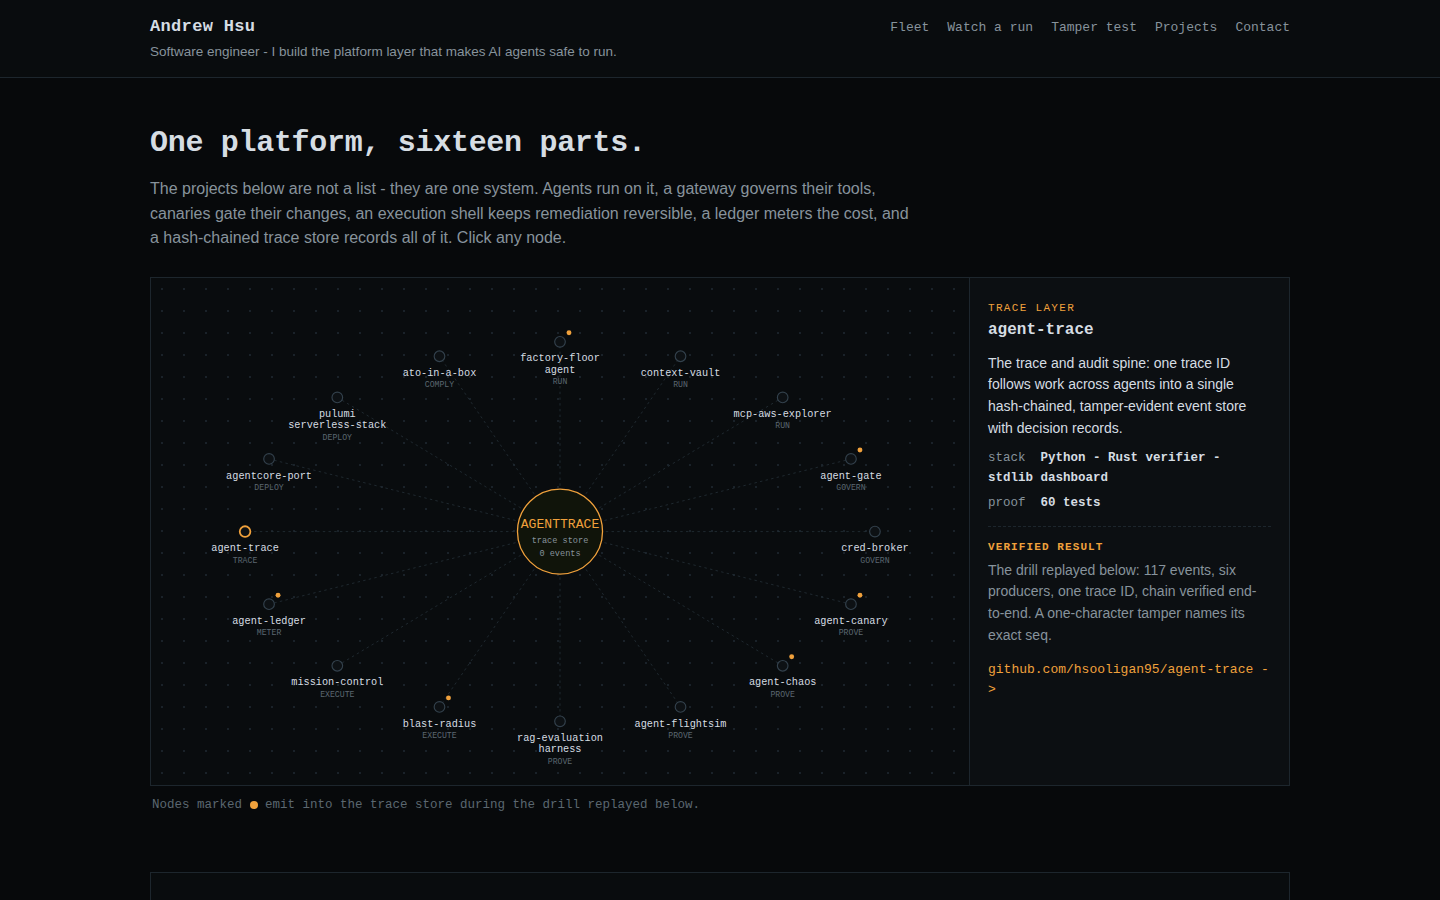
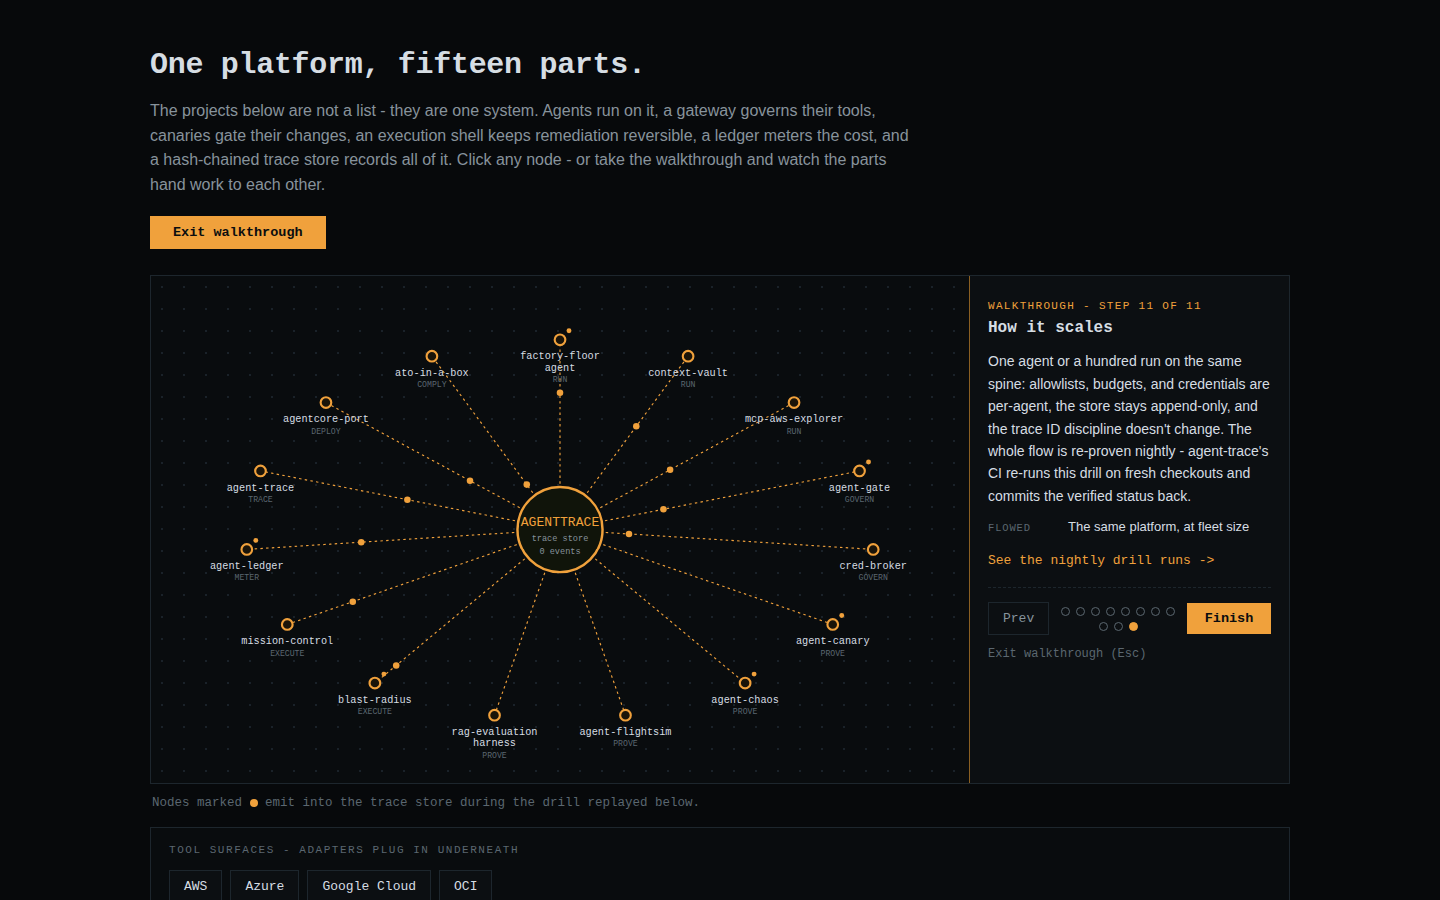
Remove Pulumi from the presentation (15 projects) + refresh fleet image

diff --git a/README.md b/README.md
@@ -75,11 +75,10 @@ execute safely, meter the cost.
 | Project | What it is |
 | --- | --- |
 | [mcp-aws-explorer](https://github.com/hsooligan95/mcp-aws-explorer) | A Model Context Protocol (MCP) server in TypeScript that exposes read-only AWS inventory and cost tools over a local mock dataset — list resources, summarize costs, find idle resources. Also serves as the demo upstream behind AgentGate. |
-| [pulumi-serverless-stack](https://github.com/hsooligan95/pulumi-serverless-stack) | A Pulumi program in TypeScript defining a serverless API (API Gateway + Lambda + DynamoDB) as real code — no YAML templates. |
 
 ## What I'm focused on
 
-- Infrastructure as code in general-purpose languages (Pulumi, CDK)
+- Infrastructure as code in general-purpose languages (AWS CDK)
 - AI agent systems with tool calling, orchestration, and evaluation
 - Serverless architecture on AWS, including cost and usage visibility
 
